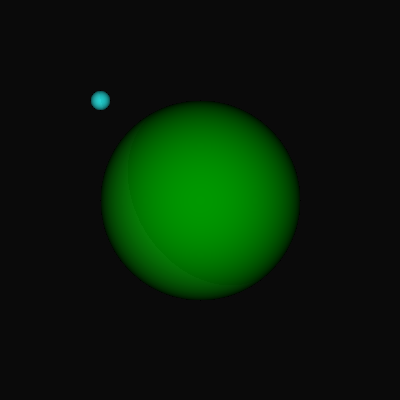
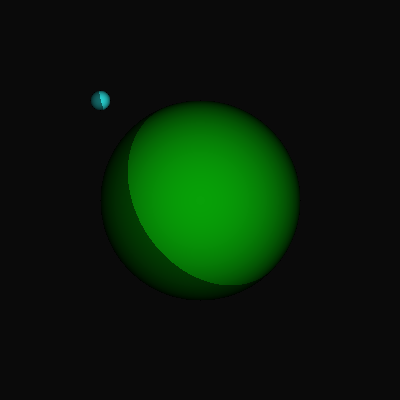
small refactor on the shape file, split and renamed

Changed region(s): [[0.24, 0.33, 0.6, 0.75], [0.21, 0.21, 0.27, 0.27]]

diff --git a/src/main.rs b/src/main.rs
@@ -3,15 +3,20 @@ extern crate image;
 
 mod test;
 
-mod shape;
-use shape::*;
+mod ray;
+use ray::*;
+
+mod objects;
+use objects::*;
 
 const WIDTH: u32 = 400;
 const HEIGHT: u32 = 400;
 
+pub type Vec3 = cgmath::Vector3<f64>;
+
 fn main() {
     let spheres = vec![
-        shape::Sphere {
+        Sphere {
             origin: Vec3 {
                 x: 100.0,
                 y: 100.0,
@@ -20,7 +25,7 @@ fn main() {
             radius: 10.0,
             color: [50, 255, 255, 255],
         },
-        shape::Sphere {
+        Sphere {
             origin: Vec3 {
                 x: 200.0,
                 y: 200.0,
@@ -31,7 +36,7 @@ fn main() {
         },
     ];
 
-    let lights = vec![shape::Light {
+    let lights = vec![Light {
         origin: Vec3 {
             x: 0.0,
             y: 500.0,
@@ -68,7 +73,6 @@ fn get_color_from_cord(x: f64, y: f64, spheres: &Vec<Sphere>, lights: &Vec<Light
         let hit = ray.intersects_sphere(*sphere);
         match hit {
             Some(time) => {
-                let mut light_thing = 0u8;
                 let mut color = sphere.color;
                 let hit = ray.get_hitpoint(time - 0.1);
                 let normal = sphere.get_normal(&hit);
@@ -91,16 +95,13 @@ fn get_color_from_cord(x: f64, y: f64, spheres: &Vec<Sphere>, lights: &Vec<Light
                         return false;
                     }
 
-                    if did_hit(ray, spheres) {
-                        color[0] -= 10;
-                        color[1] -= 10;
-                        color[2] -= 10;
-                        /*light_thing[0] = light.color[0] / 2;
-                        light_thing[1] = light.color[1] / 2;
-                        light_thing[2] = light.color[2] / 2;*/
+                    if !did_hit(ray, spheres) {
+                        color[0] /= 2;
+                        color[1] /= 2;
+                        color[2] /= 2;
                     }
                 }
-                color[0] = (color[0] as f64 * facing_ratio) as u8;
+                color[0] = (color[0] as f64 * facing_ratio) as u8; //make a color struct or somethint o easier do math ops
                 color[1] = (color[1] as f64 * facing_ratio) as u8;
                 color[2] = (color[2] as f64 * facing_ratio) as u8;
 

diff --git a/src/ray.rs b/src/ray.rs
@@ -1,23 +1,7 @@
-pub type Vec3 = cgmath::Vector3<f64>;
+//should this be sometype of global alias
+type Vec3 = cgmath::Vector3<f64>;
 
-#[derive(Debug, Clone, Copy)]
-pub struct Sphere {
-    pub origin: Vec3,
-    pub radius: f64,
-    pub color: [u8; 4],
-}
-
-#[derive(Debug, Clone, Copy)]
-pub struct Light {
-    pub origin: Vec3,
-    pub color: [u8; 4],
-}
-
-impl Sphere {
-    pub fn get_normal(&self, point: &Vec3) -> Vec3 {
-        return (point - self.origin) * (-1.0 / (self.radius));
-    }
-}
+use crate::objects::Sphere;
 
 #[derive(Debug, Clone, Copy)]
 pub struct Ray {

diff --git a/src/objects.rs b/src/objects.rs
@@ -1,0 +1,20 @@
+pub type Vec3 = cgmath::Vector3<f64>;
+
+#[derive(Debug, Clone, Copy)]
+pub struct Sphere {
+    pub origin: Vec3,
+    pub radius: f64,
+    pub color: [u8; 4],
+}
+
+#[derive(Debug, Clone, Copy)]
+pub struct Light {
+    pub origin: Vec3,
+    pub color: [u8; 4],
+}
+
+impl Sphere {
+    pub fn get_normal(&self, point: &Vec3) -> Vec3 {
+        return (point - self.origin) * (-1.0 / (self.radius));
+    }
+}

diff --git a/src/test.rs b/src/test.rs
@@ -1,6 +1,9 @@
+//type Vec3 = cgmath::Vector3<f64>;
+
 #[cfg(test)]
 mod tests {
-    use crate::shape::*;
+    use crate::objects::*;
+    use crate::ray::*;
 
     #[test]
     fn test_should_hit_with_5_distance() {
